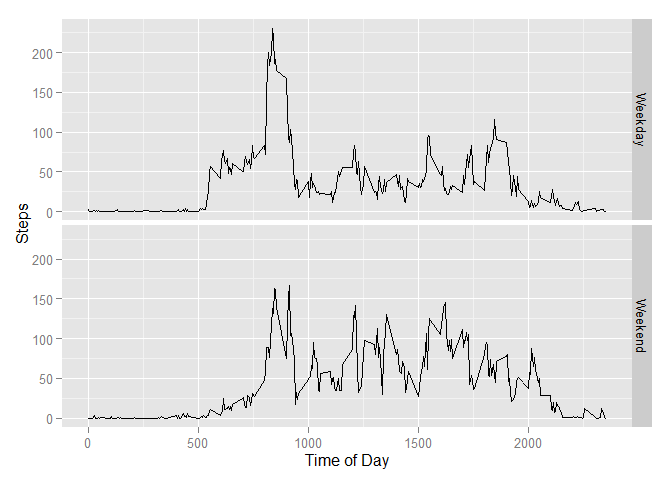
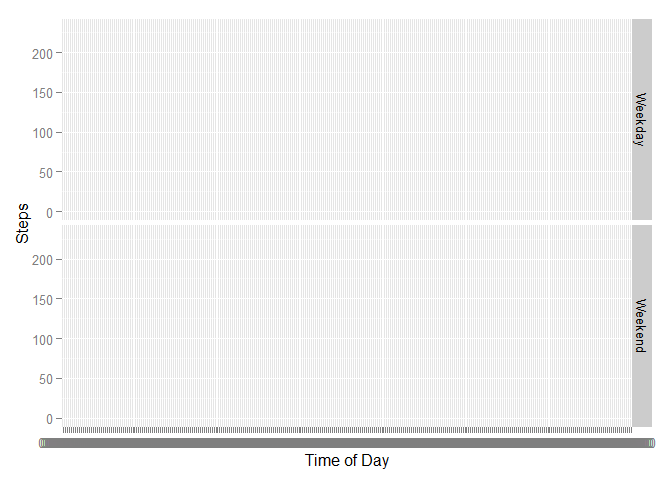
another try at date times in r
tried to plot intervals as hour and minutes

diff --git a/PA1_template.html b/PA1_template.html
@@ -133,8 +133,13 @@ print(StepsDataImpute)</code></pre>
 <div id="are-there-differences-in-activity-patterns-between-weekdays-and-weekends" class="section level2">
 <h2>Are there differences in activity patterns between weekdays and weekends?</h2>
 <p>To determine if there are differences between weekday and weekend patterns a time plot is produced using and indicator of weekday or weekend for the date and time of day for the x axis. To ready the data for this plot the interval column values are converted to a time series object for ploting and stored in a new columne labeled intervalplot. The weekday name of the date is generated using the weekdays function operating on the date character column that is converted to a POSIX object using the r function strptime. These values are stored in a new column labled weekday. A new column labled weekdayfactor is created empty with all NA values stored in it. This column is populated with the 1 if the weekday name matches the list of weekend day names and by a 0 otherwise. This column is converted to a factor variable using the factor function and given the two levels of Weekday and Weekend. Finally the ggplot2 package is used to plot the average by time of day of the steps taken with plots for the weekdays and the weekend days.</p>
-<pre class="r"><code># now convert Interval to time series variable
-ActivityDataImpute$intervalplot&lt;-as.ts(ActivityDataImpute$interval)
+<pre class="r"><code># now pad the interval characters to enable their converstion to time
+require(stringi)</code></pre>
+<pre><code>## Loading required package: stringi</code></pre>
+<pre class="r"><code>ActivityDataImpute$intervalplot&lt;-stri_pad_left(as.character(ActivityDataImpute$interval),4,pad=&quot;0&quot;)
+# now convert this padded character column to date/time and then format as time only
+ActivityDataImpute$intervalplot&lt;-strptime(ActivityDataImpute$intervalplot,format=&quot;%H%M&quot;)
+ActivityDataImpute$intervalplot&lt;-format(ActivityDataImpute$intervalplot,&quot;%T&quot;)
 #find the day of the week for each date
 ActivityDataImpute$weekday&lt;-weekdays(strptime(ActivityDataImpute$date,&quot;%Y-%m-%d&quot;))
 # create an empty column
@@ -152,7 +157,9 @@ for (i in 1:nrow(ActivityDataImpute)){
 ActivityDataImpute$weekdayfactor&lt;- factor(ActivityDataImpute$weekdayfactor, labels = c(&quot;Weekday&quot;, &quot;Weekend&quot;))
 #create a plot using ggplot2 qplot function and use facets for weekday and weekend
 qplot(intervalplot,steps, data=ActivityDataImpute, stat=&quot;summary&quot;, fun.y=&quot;mean&quot;, geom=&quot;line&quot;,facets=weekdayfactor~.,xlab=&quot;Time of Day&quot;,ylab=&quot;Steps&quot;)</code></pre>
[1 lines of base64/hex data omitted]
+<pre><code>## geom_path: Each group consist of only one observation. Do you need to adjust the group aesthetic?
+## geom_path: Each group consist of only one observation. Do you need to adjust the group aesthetic?</code></pre>
[1 lines of base64/hex data omitted]
 <p>The resulting plot clearly shows that this pattern of steps is different for weekdays and weekend days. The weekend activity starts later and ends later. This indicates that the act daily commuting on the weekdays impacts the steps taken.</p>
 </div>
 

diff --git a/PA1_template.md b/PA1_template.md
@@ -139,8 +139,19 @@ To determine if there are differences between weekday and weekend patterns a tim
 
 
 ```r
-# now convert Interval to time series variable
-ActivityDataImpute$intervalplot<-as.ts(ActivityDataImpute$interval)
+# now pad the interval characters to enable their converstion to time
+require(stringi)
+```
+
+```
+## Loading required package: stringi
+```
+
+```r
+ActivityDataImpute$intervalplot<-stri_pad_left(as.character(ActivityDataImpute$interval),4,pad="0")
+# now convert this padded character column to date/time and then format as time only
+ActivityDataImpute$intervalplot<-strptime(ActivityDataImpute$intervalplot,format="%H%M")
+ActivityDataImpute$intervalplot<-format(ActivityDataImpute$intervalplot,"%T")
 #find the day of the week for each date
 ActivityDataImpute$weekday<-weekdays(strptime(ActivityDataImpute$date,"%Y-%m-%d"))
 # create an empty column
@@ -158,6 +169,11 @@ for (i in 1:nrow(ActivityDataImpute)){
 ActivityDataImpute$weekdayfactor<- factor(ActivityDataImpute$weekdayfactor, labels = c("Weekday", "Weekend"))
 #create a plot using ggplot2 qplot function and use facets for weekday and weekend
 qplot(intervalplot,steps, data=ActivityDataImpute, stat="summary", fun.y="mean", geom="line",facets=weekdayfactor~.,xlab="Time of Day",ylab="Steps")
+```
+
+```
+## geom_path: Each group consist of only one observation. Do you need to adjust the group aesthetic?
+## geom_path: Each group consist of only one observation. Do you need to adjust the group aesthetic?
 ```
 
 ![](PA1_template_files/figure-html/unnamed-chunk-5-1.png) 
